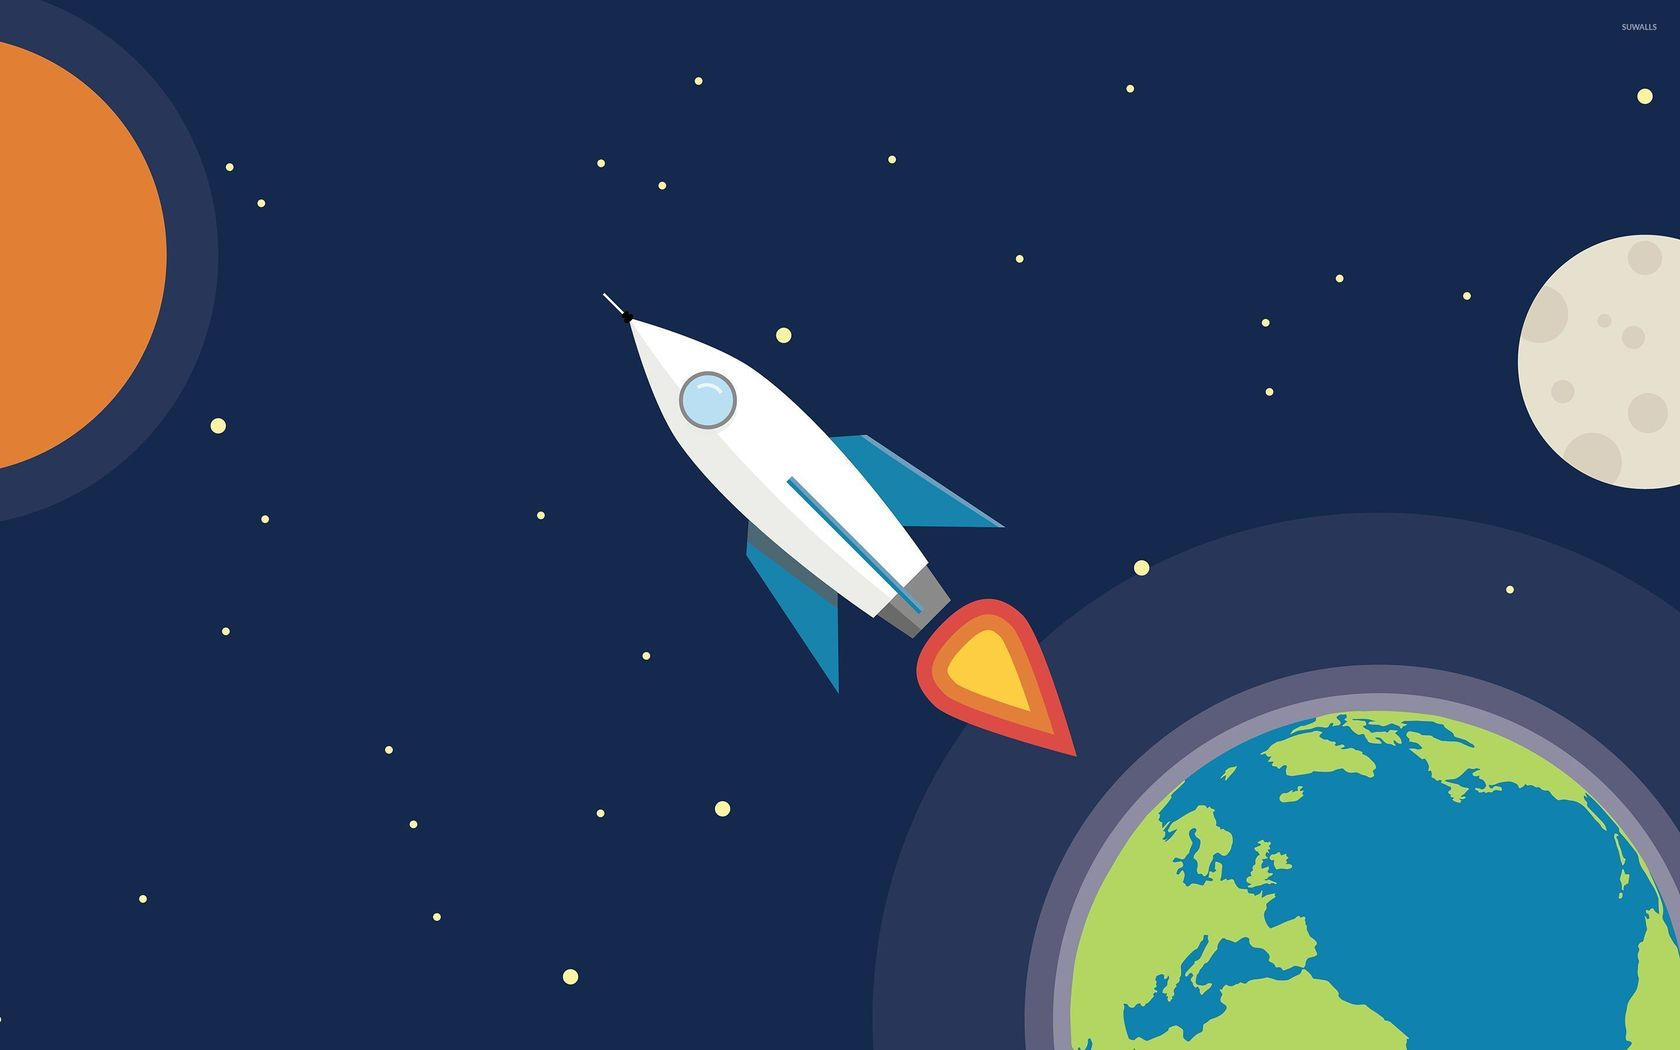
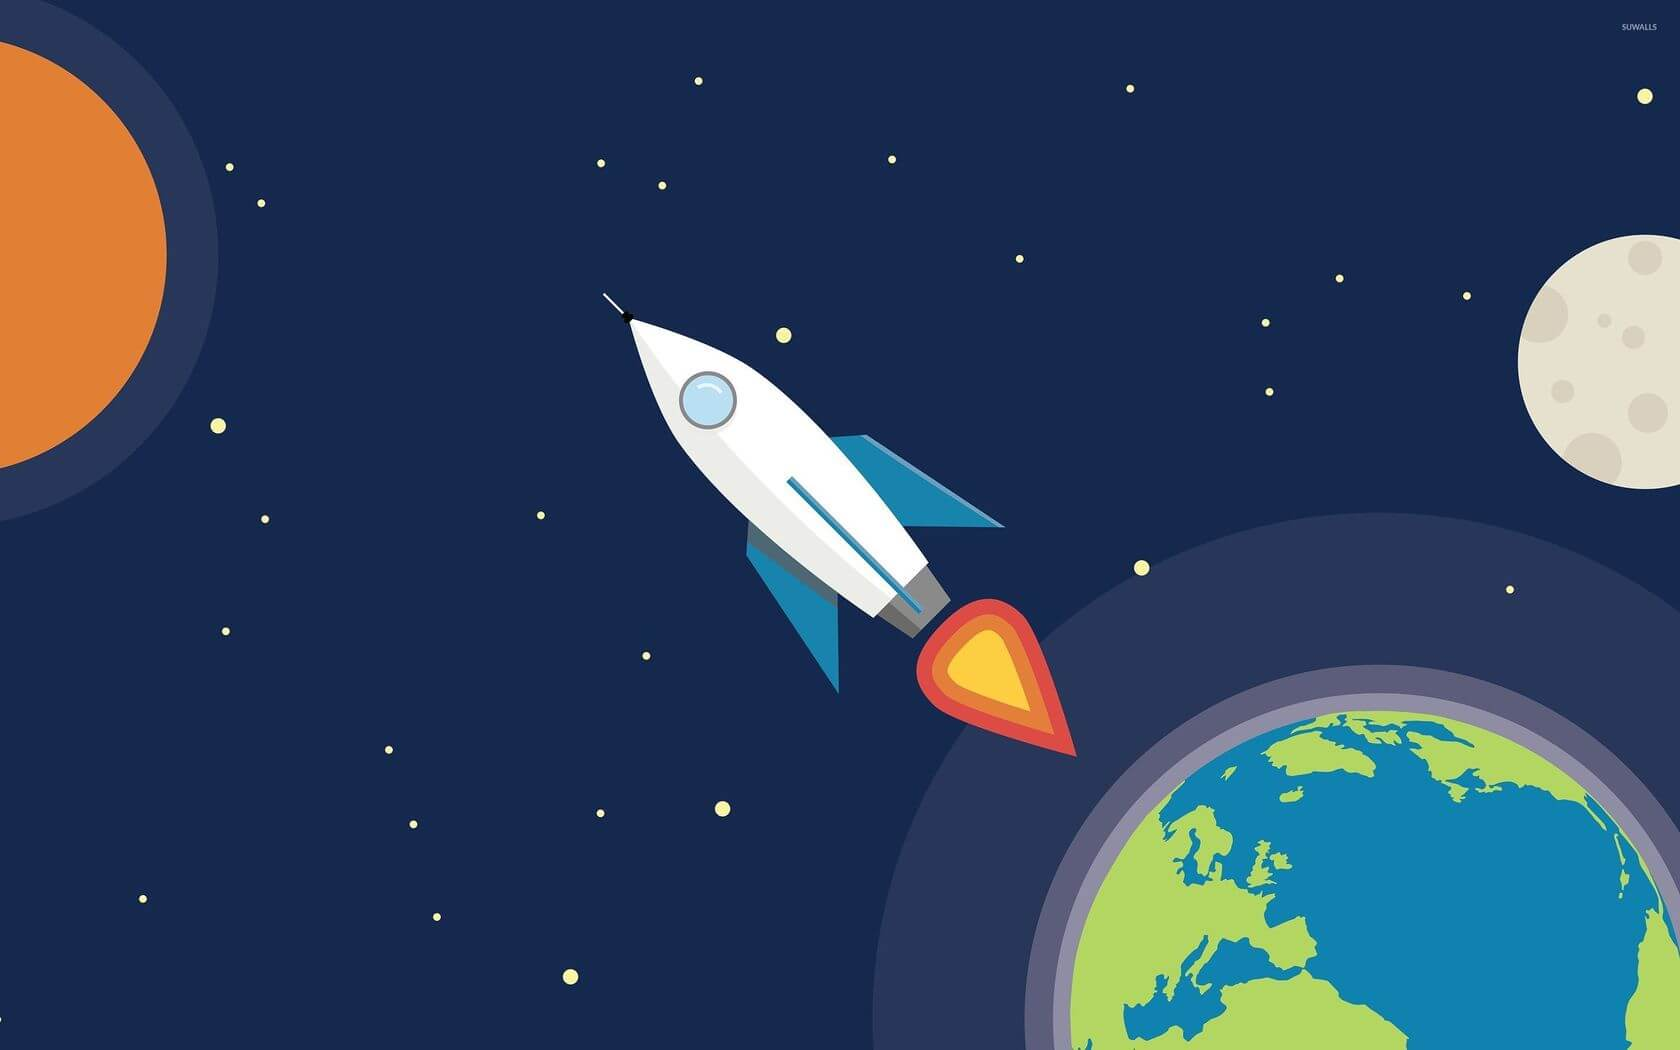
Optimized images.

diff --git a/scripts/mainViews/SpacePlayView.js b/scripts/mainViews/SpacePlayView.js
@@ -49,6 +49,9 @@ define(['SelectPlanetView',
 		attachEvents: function() {
 			this.selectedTravelData.on('change', function selectedTravelDataHandler(obj) {
 				this.planets.remove(obj.planet);
+				_.each(this.views, function(view) {
+					view.$el.addClass('disabled');
+				});
 				if(this.destinationID < 4) {
 					this.destinationID = this.destinationID + 1;
 					this.setUpPlanetsViews(this.planets);
